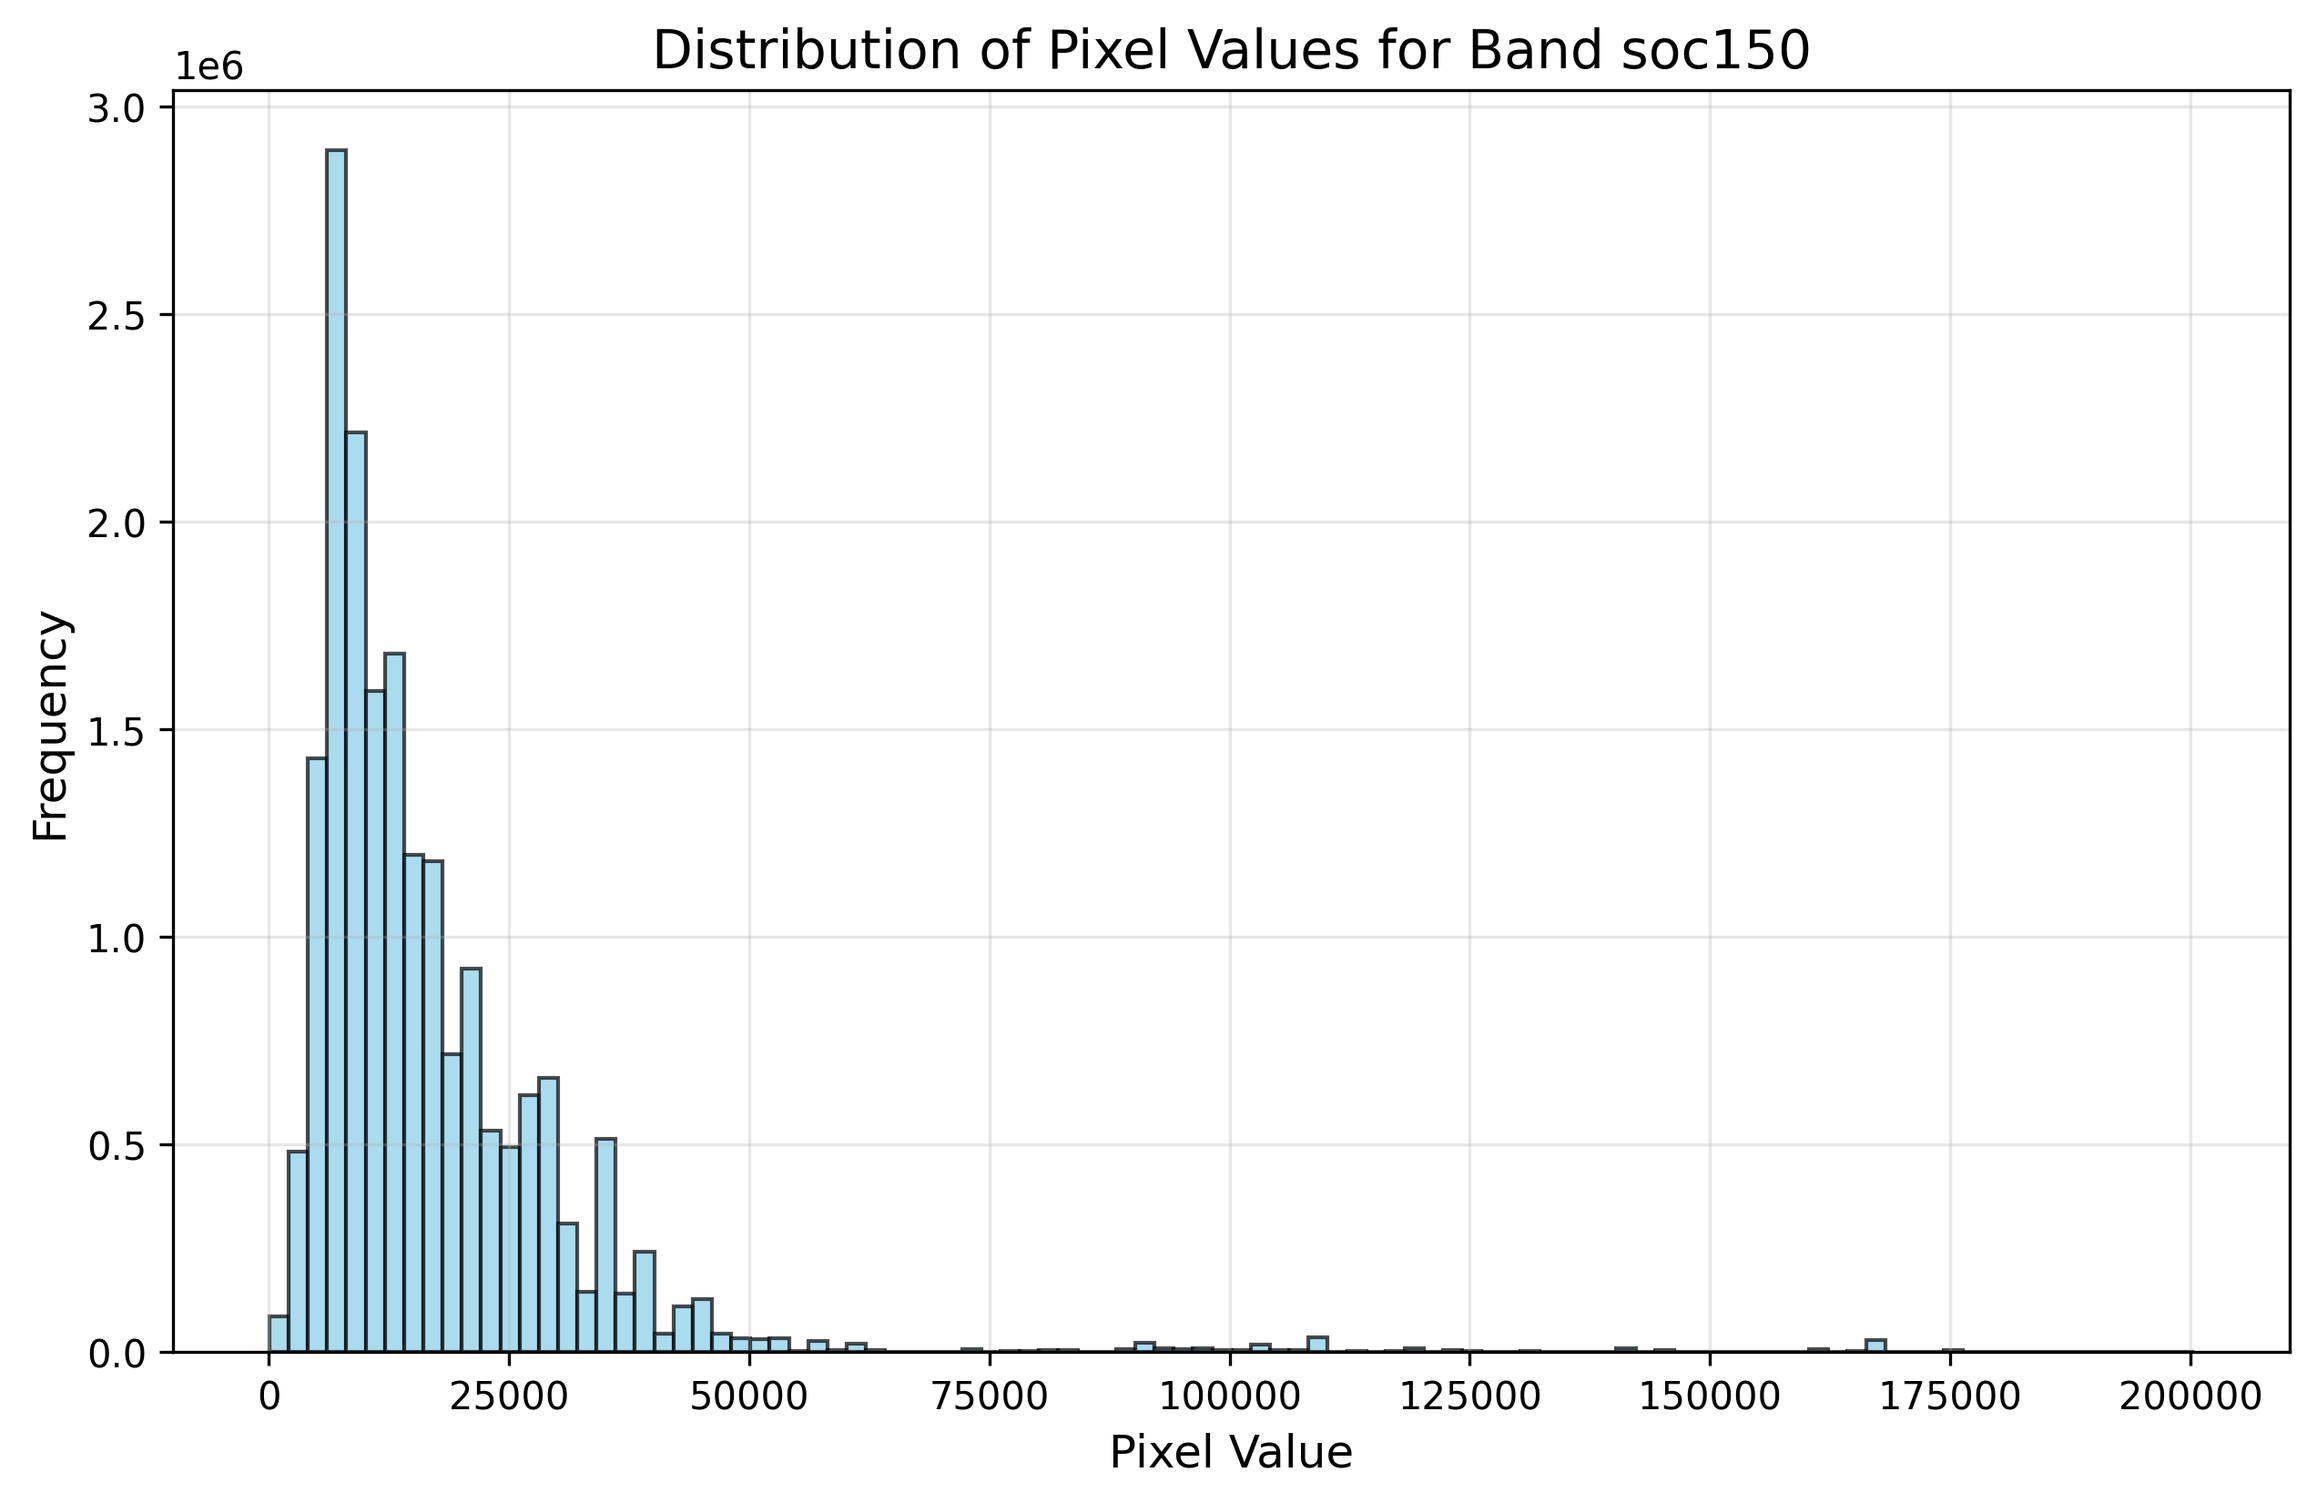
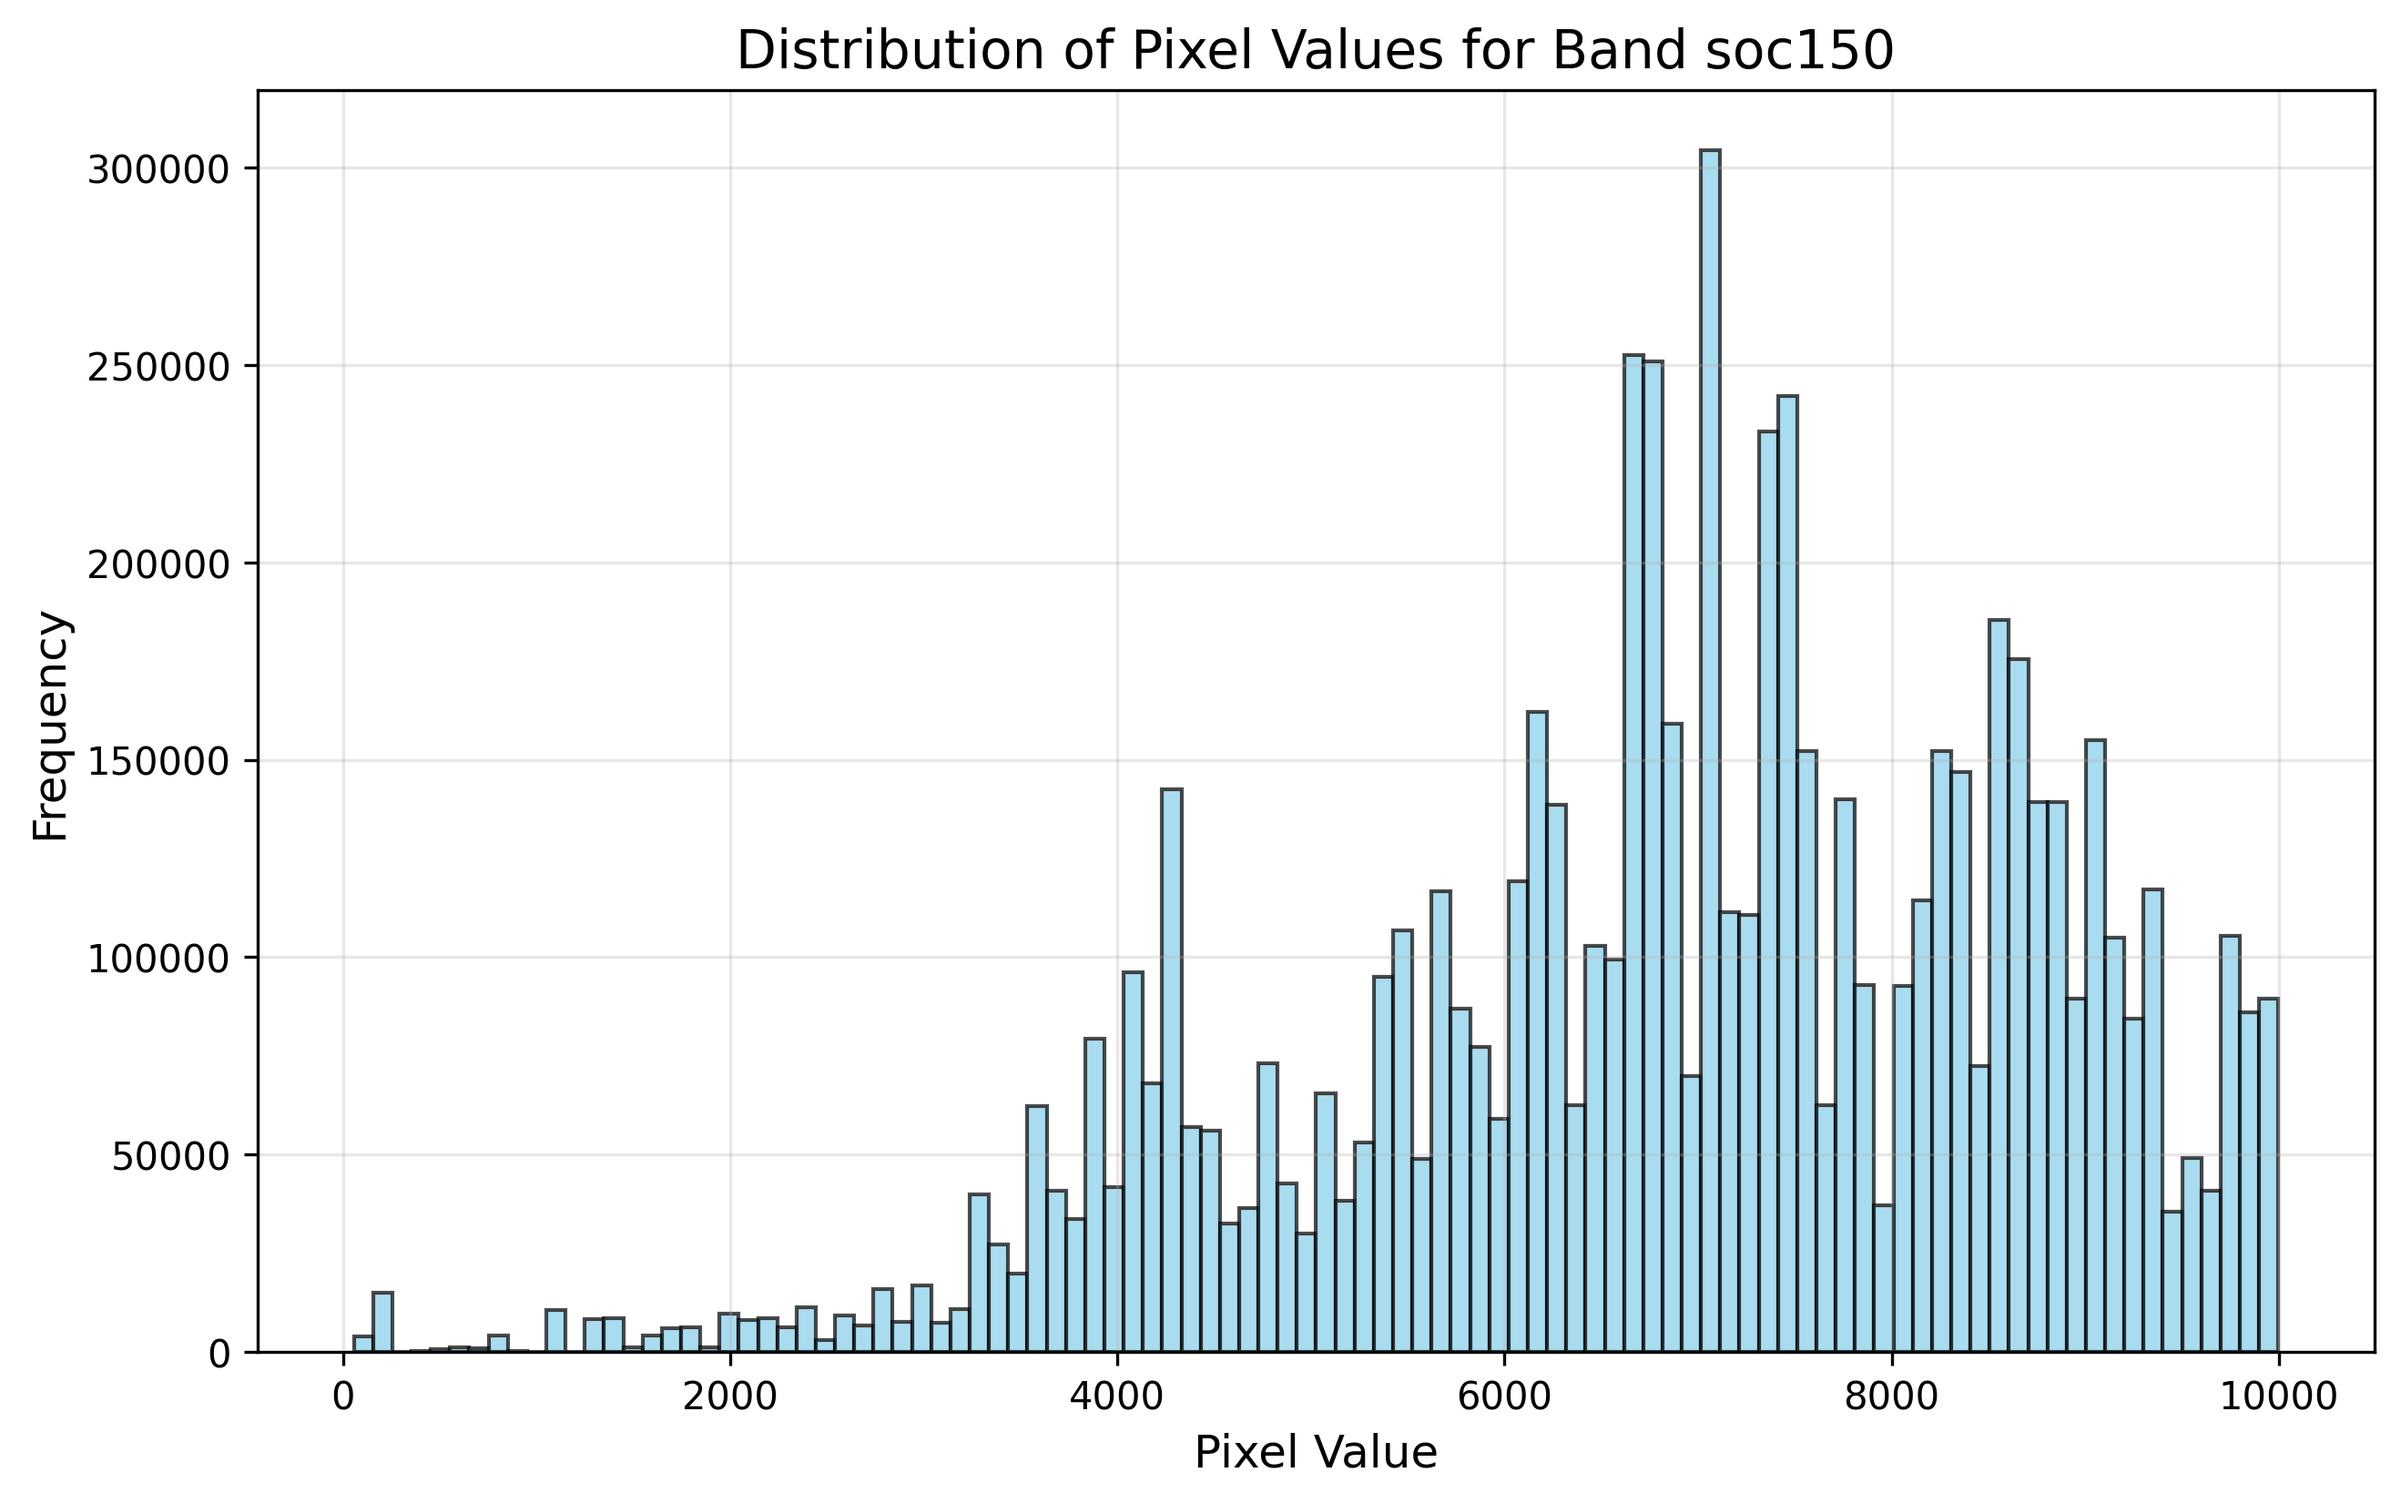
DEV: 1. Updated soil statistics with news variables for water storage estimate.

Changed region(s): [[0.0, 0.0618, 0.9933, 0.9885], [0.2794, 0.0, 0.8071, 0.0618], [0.0621, 0.0309, 0.1242, 0.0618]]

diff --git a/statistics.py b/statistics.py
@@ -44,6 +44,7 @@ if args.m =='soil':
             pixels = data.flatten()  # Convert 2D array to 1D
             # Filter out negative values
             valid_pixels = pixels[pixels >= 0]
+            valid_pixels = valid_pixels[valid_pixels < 9999]
             if valid_pixels.size > 0:
                 # Update statistics with this image's pixel values
                 min_val = min(min_val, valid_pixels.min())
